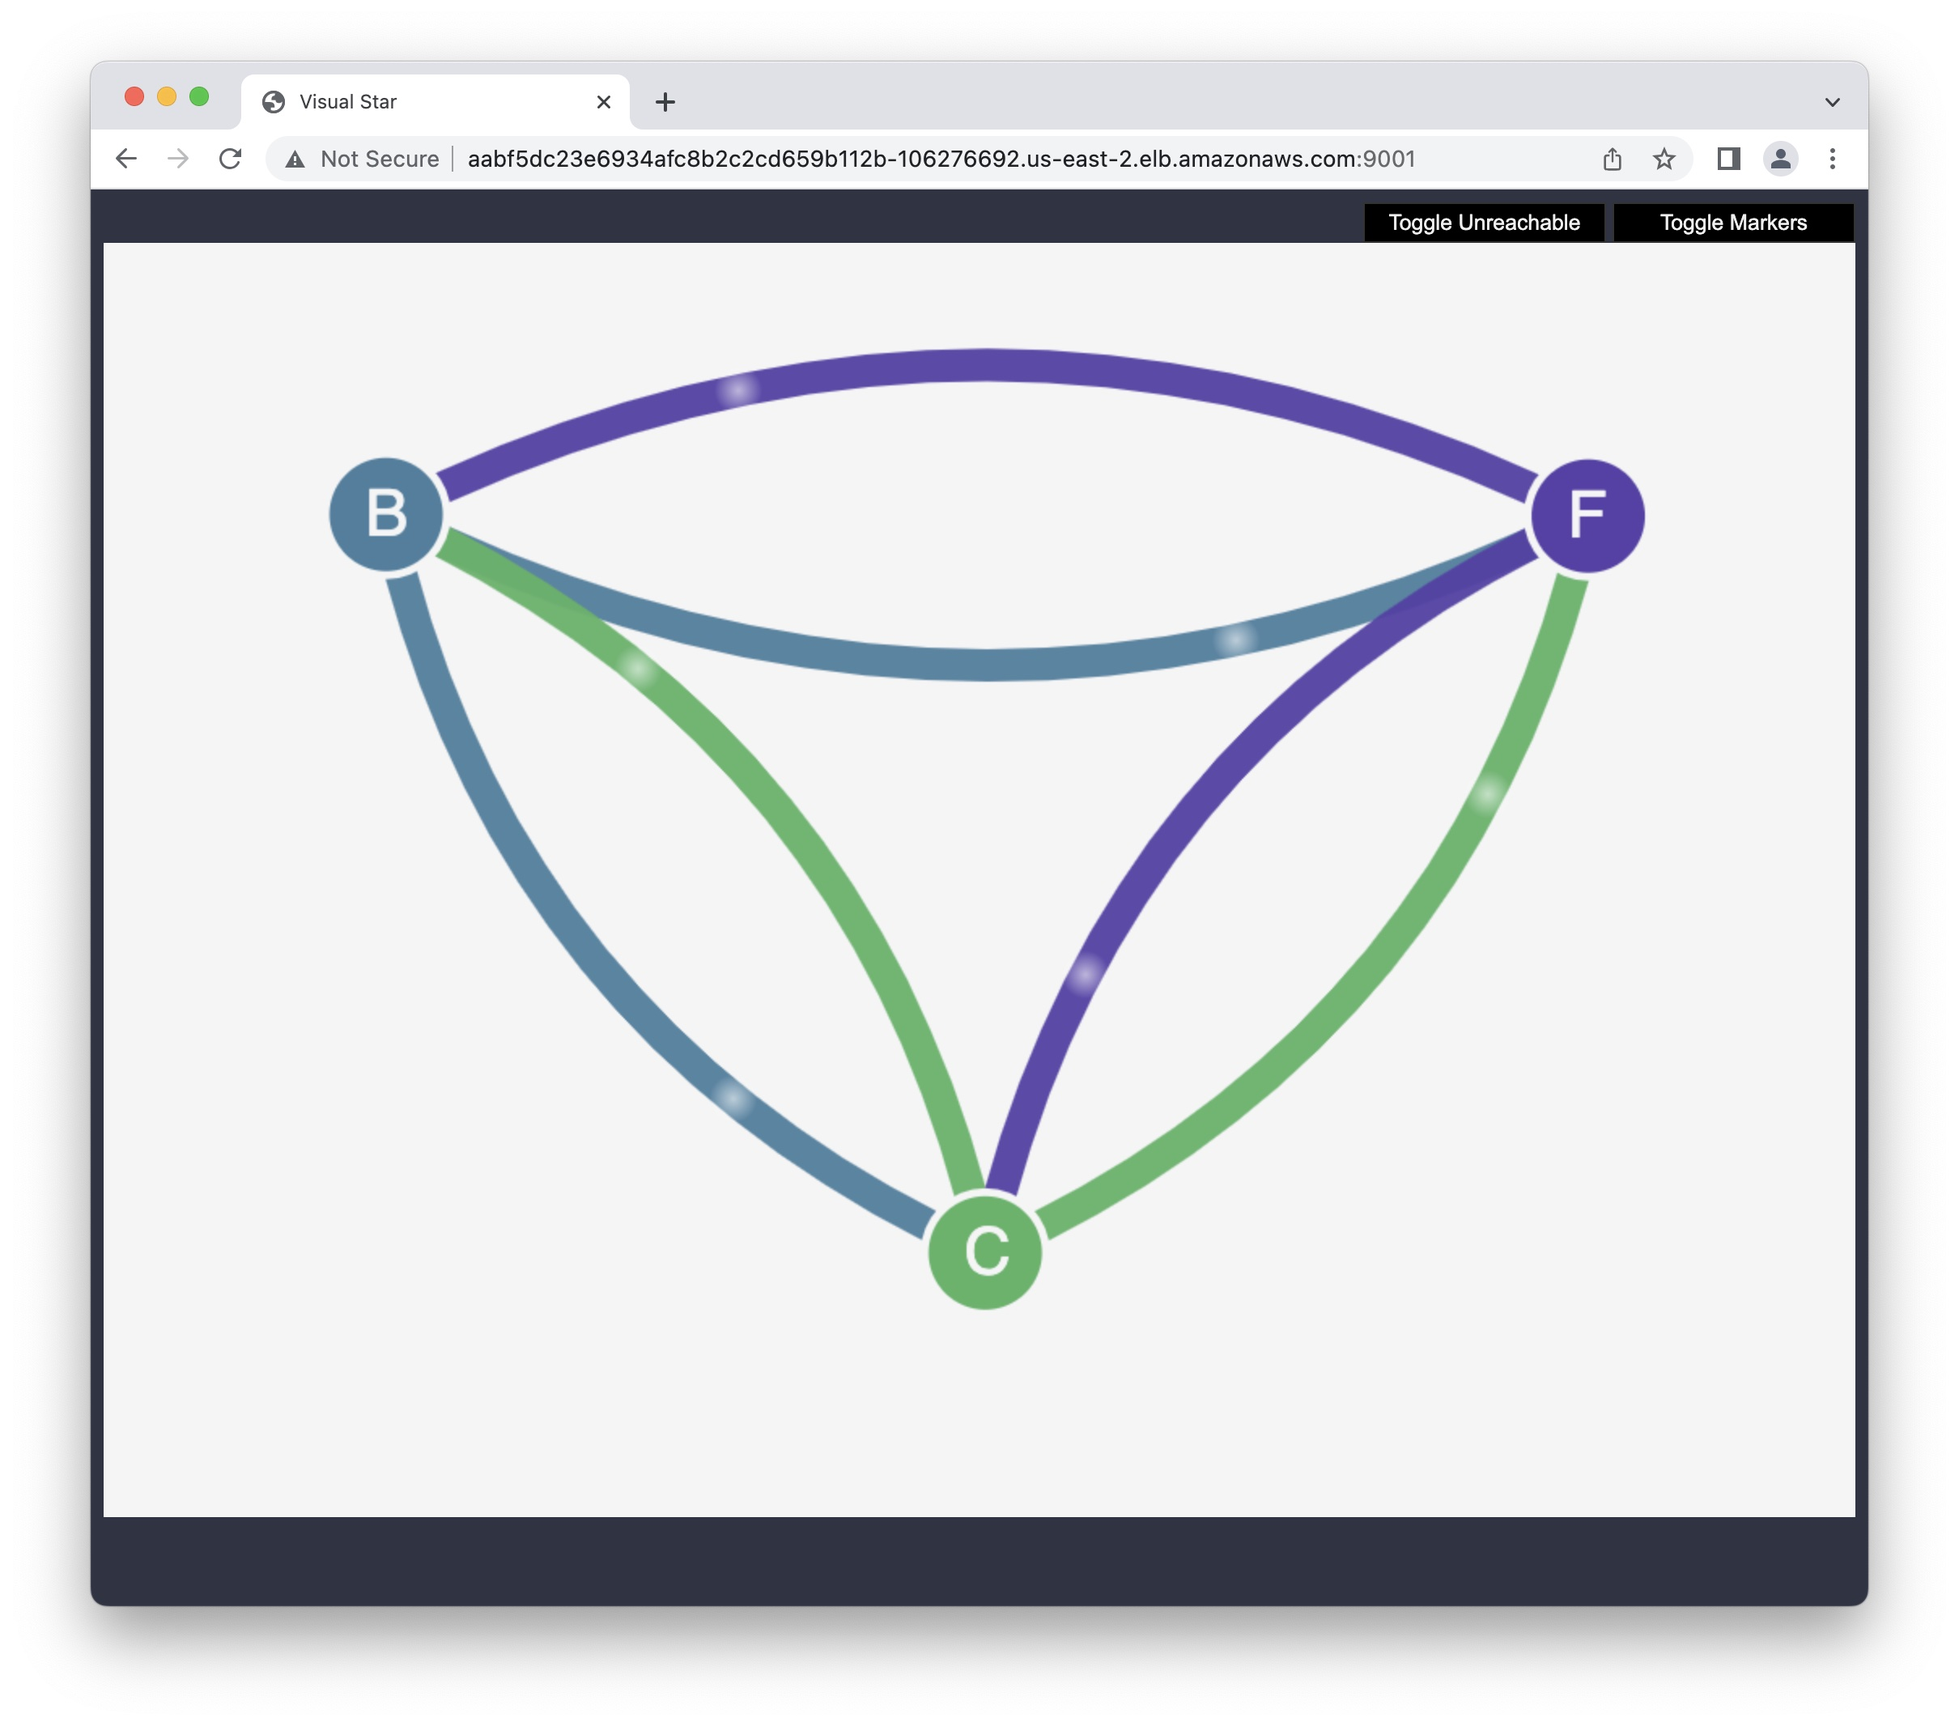
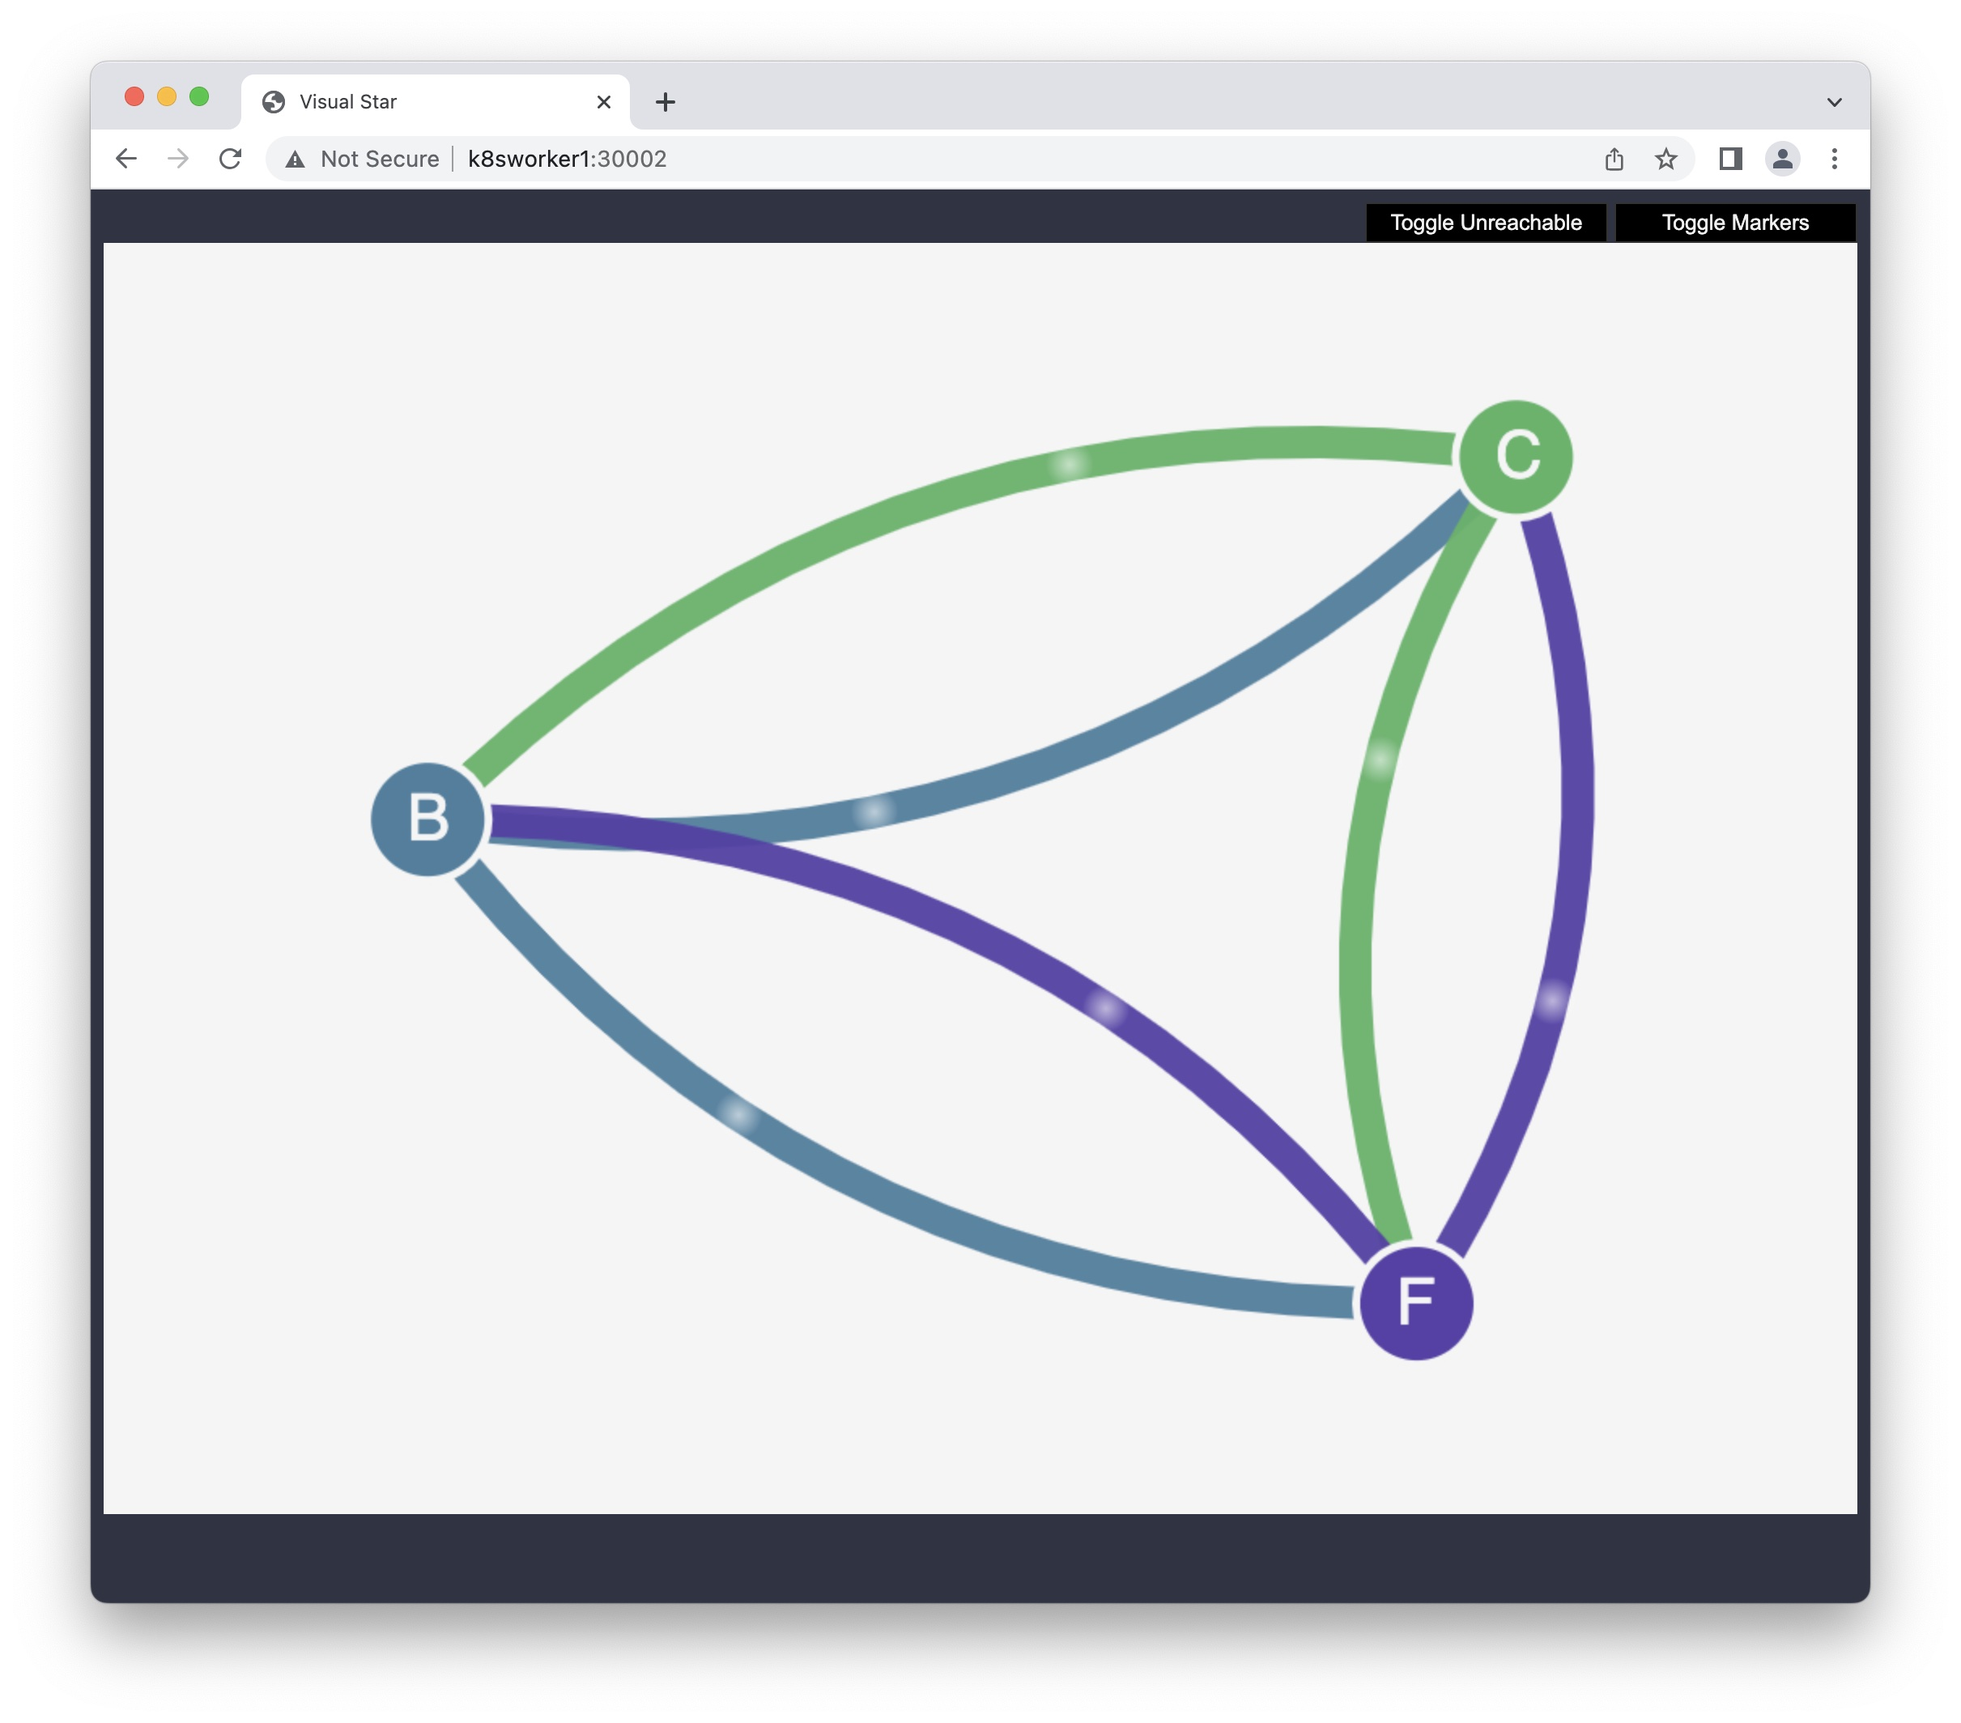
Initial commit

diff --git a/EKS/Stars/README.md b/EKS/Stars/README.md
@@ -4,19 +4,65 @@ This section walks through the Stars policy demo provided by the Project Calico 
 
 Before you create any network policies, all services can communicate bidirectionally. After you apply the network policies, you can see that the client can only communicate with the front-end service, and the back-end only accepts traffic from the front-end.
 
-## Start the Stars policy demo
+>I did the tests with AWS EKS with a seperate `kubeconfig` file. The only thing is to add `--kubeconfig=$HOME/.kube/eks-calicoebpf` to every `kubectl` command.
+
+## Check NetworkPolicy
+### Calico Policy
+Check for any Calico Network Policy:
 ```sh
-kubectl --kubeconfig=$HOME/.kube/eks-calicoebpf apply -f https://docs.projectcalico.org/v3.5/getting-started/kubernetes/tutorials/stars-policy/manifests/00-namespace.yaml
-kubectl --kubeconfig=$HOME/.kube/eks-calicoebpf apply -f https://docs.projectcalico.org/v3.5/getting-started/kubernetes/tutorials/stars-policy/manifests/01-management-ui.yaml
-kubectl --kubeconfig=$HOME/.kube/eks-calicoebpf apply -f https://docs.projectcalico.org/v3.5/getting-started/kubernetes/tutorials/stars-policy/manifests/02-backend.yaml
-kubectl --kubeconfig=$HOME/.kube/eks-calicoebpf apply -f https://docs.projectcalico.org/v3.5/getting-started/kubernetes/tutorials/stars-policy/manifests/03-frontend.yaml
-kubectl --kubeconfig=$HOME/.kube/eks-calicoebpf apply -f https://docs.projectcalico.org/v3.5/getting-started/kubernetes/tutorials/stars-policy/manifests/04-client.yaml
+calicoctl get NetworkPolicy --all-namespaces -o wide
 ```
 
-View all Pods on the cluster.
+The output should look like this:
+```
+NAMESPACE   NAME   ORDER   SELECTOR   
+```
+
+Check for any Calico Global Network Policy (Global Network Policy is not namespaced):
+```sh
+calicoctl get GlobalNetworkPolicy -o wide
+```
+
+The output should look like this:
+```
+NAME   ORDER   SELECTOR   
+```
+
+### Kubernetes Policy
+Check for any K8s Network Policy:
+```sh
+kubectl get NetworkPolicy --all-namespaces -o wide
+```
+
+The output should look like this:
+```
+NAMESPACE          NAME              POD-SELECTOR     AGE
+calico-apiserver   allow-apiserver   apiserver=true   25d
+```
+
+## Start the Stars policy demo
+Start by download all the manifests. You could pass the url directly to `kubectl`.
 
 ```sh
-kubectl --kubeconfig=$HOME/.kube/eks-calicoebpf get pods -n client
+curl -LO https://docs.projectcalico.org/v3.5/getting-started/kubernetes/tutorials/stars-policy/manifests/00-namespace.yaml
+curl -LO https://docs.projectcalico.org/v3.5/getting-started/kubernetes/tutorials/stars-policy/manifests/01-management-ui.yaml
+curl -LO https://docs.projectcalico.org/v3.5/getting-started/kubernetes/tutorials/stars-policy/manifests/02-backend.yaml
+curl -LO https://docs.projectcalico.org/v3.5/getting-started/kubernetes/tutorials/stars-policy/manifests/03-frontend.yaml
+curl -LO https://docs.projectcalico.org/v3.5/getting-started/kubernetes/tutorials/stars-policy/manifests/04-client.yaml
+```
+
+Create all the ressources for the tests:
+```sh
+kubectl apply -f 00-namespace.yaml
+kubectl apply -f 01-management-ui.yaml
+kubectl apply -f 02-backend.yaml
+kubectl apply -f 03-frontend.yaml
+kubectl apply -f 04-client.yaml
+```
+
+Verify that the Pods in namespace `client`, `stars` and `management-ui` are running
+```sh
+kubectl get pods -n client
 ```
 
 ```
@@ -25,7 +71,7 @@ client-7rhfn   1/1     Running   0          15m
 ```
 
 ```sh
-kubectl --kubeconfig=$HOME/.kube/eks-calicoebpf get pods -n stars
+kubectl get pods -n stars
 ```
 
 ```
@@ -35,13 +81,16 @@ frontend-qcr46   1/1     Running   0          15m
 ```
 
 ```sh
-kubectl --kubeconfig=$HOME/.kube/eks-calicoebpf get pods -n management-ui
+kubectl get pods -n management-ui
 ```
 
 ```
 NAME                  READY   STATUS    RESTARTS   AGE
 management-ui-k622m   1/1     Running   0          15m
 ```
+
+## Create a service
+If you're in EKS, this will start a ELB service running on your EKS cluster.
 
 To connect to the management user interface via a browser, start a load balancer to listen on local port `9001` to the `management-ui` service running on your EKS cluster:
 ```sh
@@ -62,91 +111,150 @@ EOF
 ```
 
 ```sh
-kubectl --kubeconfig=$HOME/.kube/eks-calicoebpf apply -f management-ui-lb.yaml
-kubectl --kubeconfig=$HOME/.kube/eks-calicoebpf get svc -n management-ui
+kubectl apply -f management-ui-lb.yaml
 ```
 
-You will use the external IP to access the page:
+```sh
+kubectl get svc -n management-ui
+```
+
+In the case of AWS EKS, you will use the `EXTERNAL-IP` to access the page via your browser wit the port 9001:
 ```
 NAME            TYPE           CLUSTER-IP     EXTERNAL-IP                                                              PORT(S)          AGE
 management-ui   LoadBalancer   10.250.22.73   aabf5dc23e6934afc8b2c2cd659b112b-106276692.us-east-2.elb.amazonaws.com   9001:30002/TCP   21m
 ```
 
+In the case of 'on-prem' cluster, you will use the IP of any nodes to access the page via your browser with the port `30002`:
+```
+NAME            TYPE           CLUSTER-IP       EXTERNAL-IP   PORT(S)          AGE
+management-ui   LoadBalancer   10.100.182.199   <pending>     9001:30002/TCP   7m28s
+```
+
+>For the rest of this tutorial, I'll be performing all the commands of an 'on-prem' cluster. If you're perform this on an EKS cluster just replace `http://k8worker1:30002/` with your service's external IP, like this for example: `http://k8smaster1:30002/`.
+
+# Networking Policy
+Start by downloading the Networking Policies to you local drive:
+```sh
+curl -LO https://docs.projectcalico.org/v3.5/getting-started/kubernetes/tutorials/stars-policy/policies/default-deny.yaml
+curl -LO https://docs.projectcalico.org/v3.5/getting-started/kubernetes/tutorials/stars-policy/policies/allow-ui.yaml
+curl -LO https://docs.projectcalico.org/v3.5/getting-started/kubernetes/tutorials/stars-policy/policies/allow-ui-client.yaml
+curl -LO https://docs.projectcalico.org/v3.5/getting-started/kubernetes/tutorials/stars-policy/policies/backend-policy.yaml
+curl -LO https://docs.projectcalico.org/v3.5/getting-started/kubernetes/tutorials/stars-policy/policies/frontend-policy.yaml
+```
+
 ## No Policy
-Open a browser on your local system and point it to `http://aabf5dc23e6934afc8b2c2cd659b112b-106276692.us-east-2.elb.amazonaws.com:9001`. You should see the management user interface. The `C` node is the client service, the `F` node is the front-end service, and the `B` node is the back-end service. Each node has full communication access to all other nodes, as indicated by the bold, colored lines.
+Open a browser on your local system and point it to `http://k8sworker1:30002/`. You should see the management user interface. The `C` node is the client service, the `F` node is the front-end service, and the `B` node is the back-end service. Each node has full communication access to all other nodes, as indicated by the bold, colored lines. By default every Pods can talk to every other Pods even in different namespace.
+
+The color of the line (edges) that is the same as the node (vertices) represents the `egress traffic` from that node. If a line goes to a node with a different color, it represents `ingress traffic`.
 
 ![No policy](images/no-policy.jpg)
 
 ## Deny All
-Apply the following network policies to isolate the services from each other:
+Apply the following network policies to isolate the services from each other (NetworkPolicy are namespaced):
 ```sh
-kubectl --kubeconfig=$HOME/.kube/eks-calicoebpf apply -n stars -f https://docs.projectcalico.org/v3.5/getting-started/kubernetes/tutorials/stars-policy/policies/default-deny.yaml
-kubectl --kubeconfig=$HOME/.kube/eks-calicoebpf apply -n client -f https://docs.projectcalico.org/v3.5/getting-started/kubernetes/tutorials/stars-policy/policies/default-deny.yaml
+kubectl apply -n stars -f default-deny.yaml
+kubectl apply -n client -f default-deny.yaml
 ```
 
 Refresh your browser. You see that the management user interface can no longer reach any of the nodes, so they don't show up in the user interface. The page is blank.
 
-![No policy](images/default-deny.jpg)
-
-Remove the network policy:
+Check K8s Network Policy:
 ```sh
-kubectl --kubeconfig=$HOME/.kube/eks-calicoebpf delete -n stars -f https://docs.projectcalico.org/v3.5/getting-started/kubernetes/tutorials/stars-policy/policies/default-deny.yaml
-kubectl --kubeconfig=$HOME/.kube/eks-calicoebpf delete -n client -f https://docs.projectcalico.org/v3.5/getting-started/kubernetes/tutorials/stars-policy/policies/default-deny.yaml
+kubectl get NetworkPolicy --all-namespaces -o wide
 ```
 
-## Allow UI
-Apply the following network policies to allow the management user interface to access the services:
+The output should look like this:
+```
+NAMESPACE          NAME              POD-SELECTOR     AGE
+calico-apiserver   allow-apiserver   apiserver=true   25d
+client             default-deny      <none>           85s
+stars              default-deny      <none>           85s
+```
 
+![No policy](images/default-deny.jpg)
+
+## Allow UI only
+Apply the following network policies to allow the management user interface to access the nodes. You will see the nodes but no traffic can be received:
 ```sh
-kubectl --kubeconfig=$HOME/.kube/eks-calicoebpf apply -f https://docs.projectcalico.org/v3.5/getting-started/kubernetes/tutorials/stars-policy/policies/allow-ui.yaml
-kubectl --kubeconfig=$HOME/.kube/eks-calicoebpf apply -f https://docs.projectcalico.org/v3.5/getting-started/kubernetes/tutorials/stars-policy/policies/allow-ui-client.yaml
+kubectl apply -f allow-ui.yaml
+kubectl apply -f allow-ui-client.yaml
 ```
 
 ![No policy](images/allow-ui.jpg)
 
+Check K8s Network Policy:
 ```sh
-kubectl --kubeconfig=$HOME/.kube/eks-calicoebpf delete -f https://docs.projectcalico.org/v3.5/getting-started/kubernetes/tutorials/stars-policy/policies/allow-ui.yaml
-kubectl --kubeconfig=$HOME/.kube/eks-calicoebpf delete -f https://docs.projectcalico.org/v3.5/getting-started/kubernetes/tutorials/stars-policy/policies/allow-ui-client.yaml
+kubectl get NetworkPolicy --all-namespaces -o wide
+```
+
+The output should look like this:
+```
+NAMESPACE          NAME              POD-SELECTOR     AGE
+calico-apiserver   allow-apiserver   apiserver=true   25d
+client             allow-ui          <none>           2m21s
+client             default-deny      <none>           5m21s
+stars              allow-ui          <none>           2m21s
+stars              default-deny      <none>           5m21s
 ```
 
 ## front-end service to back-end service
-Apply the following network policy to allow traffic from the front-end service to the back-end service:
+Apply the following network policy to allow traffic from the `front-end` service to the `back-end` service:
 ```sh
-kubectl --kubeconfig=$HOME/.kube/eks-calicoebpf apply -f https://docs.projectcalico.org/v3.5/getting-started/kubernetes/tutorials/stars-policy/policies/backend-policy.yaml
+kubectl apply -f backend-policy.yaml
 ```
 
 ![front-end can communicate with the back-end](images/front-end-to-back-end.jpg)
 
 ## client to front-end service
-Apply the following network policy to allow traffic from the client to the front-end service.
-
+Apply the following network policy to allow traffic from the `client` to the `front-end` service.
 ```sh
-kubectl --kubeconfig=$HOME/.kube/eks-calicoebpf apply -f https://docs.projectcalico.org/v3.5/getting-started/kubernetes/tutorials/stars-policy/policies/frontend-policy.yaml
+kubectl apply -f frontend-policy.yaml
 ```
 
-Refresh your browser. You see that the client can communicate to the front-end service. The front-end service can still communicate to the back-end service.
+Refresh your browser. You see that the `client` can communicate to the `front-end` service and the `front-end` service can still communicate to the `back-end` service. This could represent a simplistic example of a real life scenario.
+
+- Management has access to everything
+- Client can only access the front-end
+- Only the the front-end can access the back-end
+
+Do **NOT** use this in a real production environment 😉
 
 ![client-to-front-end-and-front-end-to-back-end](images/client-to-front-end-and-front-end-to-back-end.jpg)
 
+Check K8s Network Policy:
 ```sh
-kubectl --kubeconfig=$HOME/.kube/eks-calicoebpf delete -f https://docs.projectcalico.org/v3.5/getting-started/kubernetes/tutorials/stars-policy/policies/frontend-policy.yaml
+kubectl get NetworkPolicy --all-namespaces -o wide
+```
+
+The output should look like this:
+```
+NAMESPACE          NAME              POD-SELECTOR     AGE
+calico-apiserver   allow-apiserver   apiserver=true   25d
+client             allow-ui          <none>           11m
+client             default-deny      <none>           14m
+stars              allow-ui          <none>           11m
+stars              backend-policy    role=backend     6m51s
+stars              default-deny      <none>           14m
+stars              frontend-policy   role=frontend    2m13s
 ```
 
 ## Cleanup
-
 When you are done with the demo, you can delete its resources.
 
 ```sh
-kubectl delete -f https://docs.projectcalico.org/v3.5/getting-started/kubernetes/tutorials/stars-policy/manifests/04-client.yaml
-kubectl delete -f https://docs.projectcalico.org/v3.5/getting-started/kubernetes/tutorials/stars-policy/manifests/03-frontend.yaml
-kubectl delete -f https://docs.projectcalico.org/v3.5/getting-started/kubernetes/tutorials/stars-policy/manifests/02-backend.yaml
-kubectl delete -f https://docs.projectcalico.org/v3.5/getting-started/kubernetes/tutorials/stars-policy/manifests/01-management-ui.yaml
-kubectl delete -f https://docs.projectcalico.org/v3.5/getting-started/kubernetes/tutorials/stars-policy/manifests/00-namespace.yaml
+kubectl delete -f 04-client.yaml
+kubectl delete -f 03-frontend.yaml
+kubectl delete -f 02-backend.yaml
+kubectl delete -f 01-management-ui.yaml
+kubectl delete -f 00-namespace.yaml
 ```
-Delete the load balancer:
+
+Delete the load balancer, especially if you did this tutorial on a cloud provider:
 ```sh
-kubectl --kubeconfig=$HOME/.kube/eks-calicoebpf delete -f management-ui-lb.yaml
+kubectl delete -f management-ui-lb.yaml
 ```
+
+
 
 # Reference
 [AWS](https://docs.aws.amazon.com/eks/latest/userguide/calico.html)  
